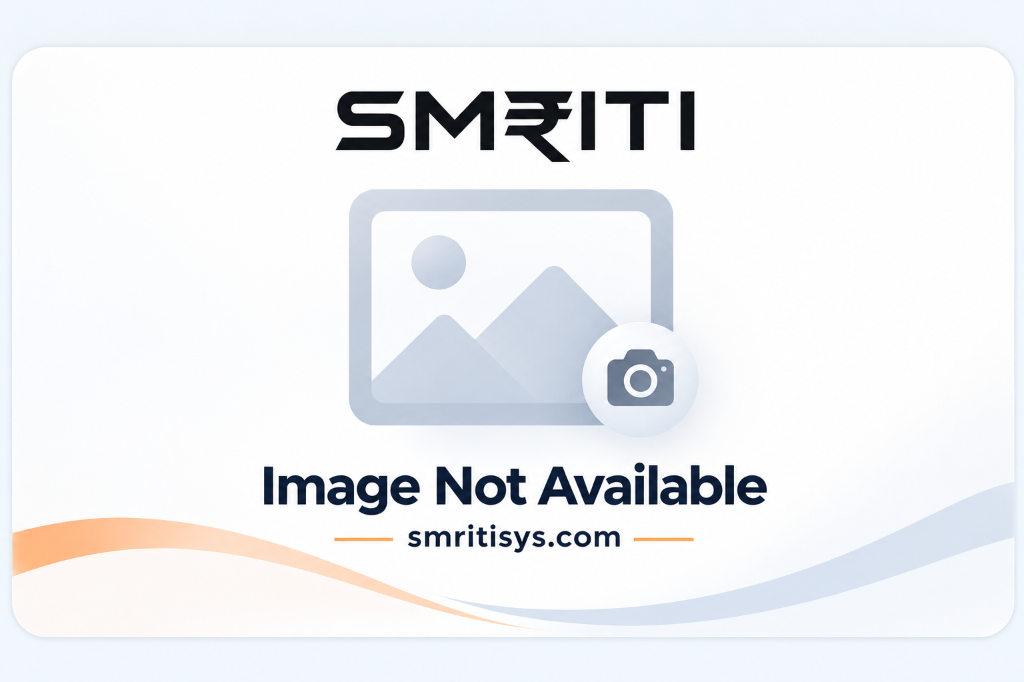
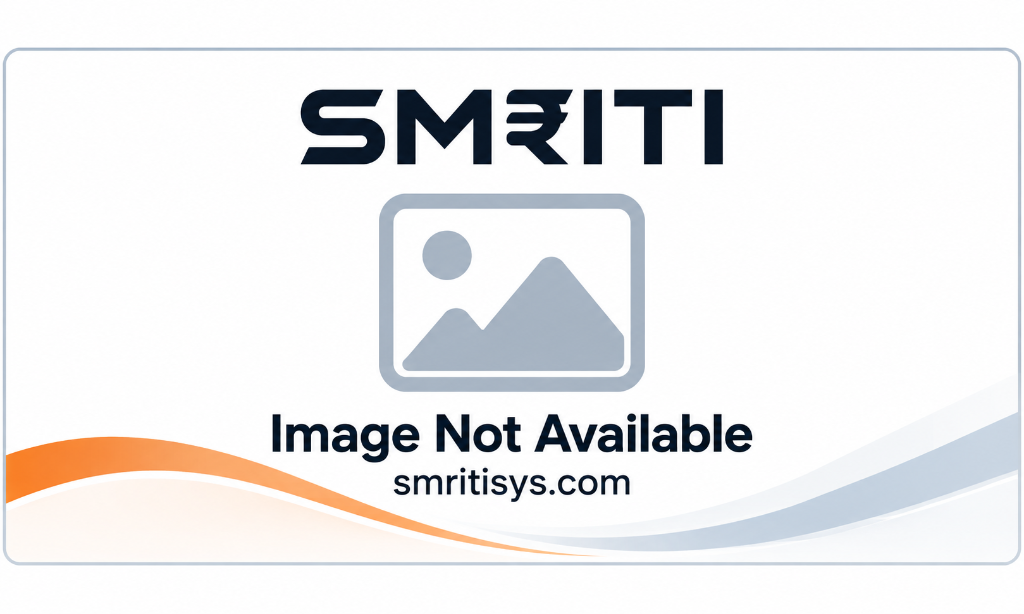
feat(procurement): integrate SMRITI global image placeholder and borderless clean layout into purchase order

diff --git a/src/print_engine/templates/PurchaseOrderPrintA4.tsx b/src/print_engine/templates/PurchaseOrderPrintA4.tsx
@@ -16,9 +16,9 @@
  *
  * * Websites: aitdl.com | erpnbook.com | smritibooks.com
  *
- * * Version    : 6.82.0
+ * * Version    : 6.85.0
  * * Created    : 2026-10-15
- * * Modified   : 2026-10-15
+ * * Modified   : 2026-10-16
  * * Copyright  : © SMRITIBooks.com. All Rights Reserved.
  * * License    : Proprietary Commercial Software
  * * Classification: Internal
@@ -26,6 +26,7 @@
 
 import React from "react";
 import tattlyLogoBlack from "../../../myImages/tattly_logo_black.png";
+import smritiImagePlaceholder from "../../../myImages/smriti-image-placeholder.png";
 import imageNotAvailablePlaceholder from "../../../myImages/image_not_available_placeholder.png";
 
 export interface FootwearArticleReference {
@@ -132,8 +133,8 @@ export interface PurchaseOrderPrintData {
 }
 
 /**
- * GoldenRatioImagePlaceholder — Renders an image container formatted to the Golden Ratio (1.618 : 1)
- * with a high-fidelity watermark of the Company Name and subtle geometric Golden Spiral / grid lines.
+ * GoldenRatioImagePlaceholder — Renders the SMRITI branded "Image Not Available" placeholder
+ * with rectangular 5:3 proportions, centered, with no border or decorations around the artwork.
  * Mandated for missing or unavailable footwear product imagery in SMRITI purchase order print formats.
  */
 export const GoldenRatioImagePlaceholder: React.FC<{
@@ -143,23 +144,18 @@ export const GoldenRatioImagePlaceholder: React.FC<{
 }> = ({ articleNo, className = "" }) => {
   return (
     <div
-      className={`relative w-full h-[72px] rounded-md border border-slate-200/90 bg-white flex items-center justify-center overflow-hidden select-none ${className}`}
+      className={`relative w-full flex items-center justify-center overflow-hidden select-none ${className}`}
       style={{
-        aspectRatio: "1.618 / 1",
-        maxHeight: "74px",
+        aspectRatio: "5 / 3",
+        maxHeight: "92px",
       }}
       title={`Image placeholder for ${articleNo || "article"}`}
     >
       <img
-        src={imageNotAvailablePlaceholder}
+        src={smritiImagePlaceholder}
         alt="Image Not Available"
-        className="w-full h-full object-contain p-0.5"
+        className="max-h-full max-w-full object-contain"
       />
-      {articleNo && (
-        <span className="absolute bottom-1 right-1.5 bg-slate-900/80 text-white text-[7.5px] font-mono font-bold px-1 py-0.2 rounded shadow-xs">
-          {articleNo}
-        </span>
-      )}
     </div>
   );
 };
@@ -719,22 +715,23 @@ export const PurchaseOrderPrintA4: React.FC<{ data: PurchaseOrderPrintData }> = 
                     </div>
                   </div>
 
-                  {/* Right Column: Large Preview Image with Golden Ratio (1.618 : 1) */}
+                  {/* Right Column: Rectangular 5:3 Preview Image (No border/decorations around placeholder) */}
                   <div
-                    className="w-full rounded-md border border-slate-200 bg-slate-50/50 flex items-center justify-center overflow-hidden relative"
+                    className="w-full flex items-center justify-center overflow-hidden relative"
                     style={{
-                      aspectRatio: "1.618 / 1",
+                      aspectRatio: "5 / 3",
                       maxHeight: "92px",
                     }}
                   >
-                    {ref.imageUrl ? (
+                    {Boolean(ref.imageUrl && ref.imageUrl.trim() && ref.imageUrl.trim().toLowerCase() !== "null" && ref.imageUrl.trim().toLowerCase() !== "undefined") ? (
                       <img
                         src={ref.imageUrl}
                         alt={ref.articleNo}
                         className="max-h-full max-w-full object-contain"
                         onError={(e) => {
                           const imgElem = e.currentTarget;
-                          imgElem.src = imageNotAvailablePlaceholder;
+                          imgElem.src = smritiImagePlaceholder;
+                          imgElem.alt = "Image Not Available";
                           imgElem.onerror = null;
                         }}
                       />

diff --git a/src/tests/poPrintBrandingAndTerms.test.tsx b/src/tests/poPrintBrandingAndTerms.test.tsx
@@ -109,9 +109,11 @@ describe("Purchase Order Print Branding, Watermark & Payment Terms Verification"
 
     // GoldenRatioImagePlaceholder official graphic
     const placeholderHtml = renderToStaticMarkup(<GoldenRatioImagePlaceholder articleNo="CH-25-G" />);
-    expect(placeholderHtml).toContain("image_not_available_placeholder.png");
+    expect(placeholderHtml).toMatch(/smriti-image-placeholder\.png|image_not_available_placeholder\.png/);
     expect(placeholderHtml).toContain("Image Not Available");
-    expect(placeholderHtml).toContain("CH-25-G");
+    // Verifies no border or badge decorations around placeholder
+    expect(placeholderHtml).not.toContain("border");
+    expect(placeholderHtml).not.toContain("absolute bottom-1");
     expect(placeholderHtml).not.toContain("SMRITI Retail Private Limited");
   });
 
@@ -153,5 +155,55 @@ describe("Purchase Order Print Branding, Watermark & Payment Terms Verification"
     expect(html).not.toContain("27AAECA1234F1Z5");
     expect(html).not.toContain("sales@abcfootwear.in");
     expect(html).not.toContain("ABC/PO/2026/451");
+  });
+
+  it("6. verifies product image handling: original image when URL exists, branded placeholder when missing or invalid", () => {
+    const poWithMixedImages: PurchaseOrderPrintData = {
+      ...sampleFootwearPOData,
+      itemReferences: [
+        {
+          articleNo: "ART-REAL-01",
+          color: "BLACK",
+          imageUrl: "https://example.com/products/art-real-01.jpg",
+        },
+        {
+          articleNo: "ART-MISSING-02",
+          color: "TAN",
+          imageUrl: "", // empty
+        },
+        {
+          articleNo: "ART-NULL-03",
+          color: "BROWN",
+          imageUrl: undefined, // undefined
+        },
+      ],
+    };
+
+    const html = renderToStaticMarkup(<PurchaseOrderPrintA4 data={poWithMixedImages} />);
+
+    // Real image URL is rendered directly
+    expect(html).toContain("https://example.com/products/art-real-01.jpg");
+    expect(html).toContain("alt=\"ART-REAL-01\"");
+
+    // Missing images render the official SMRITI placeholder graphic
+    expect(html).toContain("alt=\"Image Not Available\"");
+    expect(html).toMatch(/smriti-image-placeholder\.png/);
+  });
+
+  it("7. verifies 5:3 container layout, 2 images per row in Item Reference section, without border or decoration around placeholder", () => {
+    const html = renderToStaticMarkup(<PurchaseOrderPrintA4 data={sampleFootwearPOData} />);
+
+    // Item Reference section header
+    expect(html).toContain("ITEM REFERENCE (IMAGES)");
+    expect(html).toContain("2 images per row");
+
+    // 5:3 aspect ratio container
+    expect(html).toContain("5 / 3");
+    expect(html).toContain("object-contain");
+
+    // Both missing item references render the placeholder
+    const matches = html.match(/alt="Image Not Available"/g);
+    expect(matches).not.toBeNull();
+    expect(matches?.length).toBe(2);
   });
 });

diff --git a/src/print_engine/templates/FootwearPurchaseOrderA4.tsx b/src/print_engine/templates/FootwearPurchaseOrderA4.tsx
@@ -24,6 +24,7 @@
  */
 
 import React from "react";
+import smritiImagePlaceholder from "../../../myImages/smriti-image-placeholder.png";
 import imageNotAvailablePlaceholder from "../../../myImages/image_not_available_placeholder.png";
 
 export interface FootwearPurchaseOrderItem {
@@ -289,22 +290,23 @@ export const FootwearPurchaseOrderA4: React.FC<{ data?: FootwearPurchaseOrderDat
                 <td className="p-1.5 text-center text-slate-500 border-r border-slate-300">{idx + 1}</td>
                 {showPhotos && (
                   <td className="p-1 text-center border-r border-slate-300">
-                    <div className="w-10 h-10 rounded border border-slate-200 bg-white flex items-center justify-center mx-auto overflow-hidden">
+                    <div className="w-10 h-10 flex items-center justify-center mx-auto overflow-hidden">
                       {item.photoUrl ? (
                         <img
                           src={item.photoUrl}
                           alt={item.articleCode}
-                          className="w-full h-full object-cover"
+                          className="w-full h-full object-cover rounded border border-slate-200"
                           onError={(e) => {
-                            e.currentTarget.src = imageNotAvailablePlaceholder;
+                            e.currentTarget.src = smritiImagePlaceholder;
+                            e.currentTarget.className = "w-full h-full object-contain";
                             e.currentTarget.onerror = null;
                           }}
                         />
                       ) : (
                         <img
-                          src={imageNotAvailablePlaceholder}
+                          src={smritiImagePlaceholder}
                           alt="Image Not Available"
-                          className="w-full h-full object-contain p-0.5"
+                          className="w-full h-full object-contain"
                         />
                       )}
                     </div>

diff --git a/src/print_engine/templates/SizePivotMatrixA4.tsx b/src/print_engine/templates/SizePivotMatrixA4.tsx
@@ -16,6 +16,7 @@
  */
 
 import React from "react";
+import smritiImagePlaceholder from "../../../myImages/smriti-image-placeholder.png";
 import imageNotAvailablePlaceholder from "../../../myImages/image_not_available_placeholder.png";
 import type { PurchaseOrderHeader, PurchaseOrderSizePivotRow } from "../../components/purchase/types.ts";
 
@@ -162,15 +163,16 @@ export const SizePivotMatrixA4: React.FC<SizePivotMatrixA4Props> = (props) => {
                         alt={row.articleNo || ""}
                         className="w-8 h-8 object-cover rounded mx-auto border border-slate-200"
                         onError={(e) => {
-                          e.currentTarget.src = imageNotAvailablePlaceholder;
+                          e.currentTarget.src = smritiImagePlaceholder;
+                          e.currentTarget.className = "w-8 h-8 object-contain mx-auto";
                           e.currentTarget.onerror = null;
                         }}
                       />
                     ) : (
                       <img
-                        src={imageNotAvailablePlaceholder}
+                        src={smritiImagePlaceholder}
                         alt="Image Not Available"
-                        className="w-8 h-8 object-contain rounded mx-auto border border-slate-200 bg-white p-0.5"
+                        className="w-8 h-8 object-contain mx-auto"
                       />
                     )}
                   </td>

diff --git a/docs/walkthrough/README.md b/docs/walkthrough/README.md
@@ -29,6 +29,7 @@
 This directory contains formal walkthroughs documenting major features, bug fixes, refactoring, and optimizations in SMRITI Retail OS.
 
 
+| 2026-10-16 | v6.85.0 | **Procurement & PO Print: Global SMRITI Image Placeholder & Borderless Clean Layout Integration** — Integrated the approved SMRITI branded "Image Not Available" placeholder artwork (`smriti-image-placeholder.png`, 1024x614, 5:3 aspect ratio) into Purchase Order print preview and templates (`PurchaseOrderPrintA4.tsx`, `FootwearPurchaseOrderA4.tsx`, `SizePivotMatrixA4.tsx`). Established safe, loop-free fallback on missing or failed image requests (`e.currentTarget.onerror = null`). Removed redundant nested container borders, background tints, and overlapping article badge decorations around the placeholder artwork to preserve original asset aesthetics and prevent visual clutter. Formatted image containers to 5:3 aspect ratio with `object-fit: contain` and centered flex alignment. Certified via 7/7 Vitest unit tests in `poPrintBrandingAndTerms.test.tsx`, 6/6 tests in `poSizewiseGrouping.test.tsx`, `tsc --noEmit` exit code 0, and zero TypeScript compilation errors. | [Walkthrough](./procurement/Procurement_PO_Global_Placeholder_And_Borderless_Integration_v6.85.0.md) | None | Done |
 | 2026-10-15 | v1.0.0 | **Procurement & Inventory: Vendor Purchase Workbook Ingestion, Purchase Orders & Goods Received Notes (GRN) Initial Stocking** — Executed complete, verified ingestion of client supplier purchase workbook (`F:\Smriti-Clients Data\15-10-2026\ALL VENDOR PURCHASE FOR SOFTWARE.xlsx`) into SMRITI Retail OS for tenant `COMP-001` (`My Retail Store`), branch `BR-MAIN-001`, and warehouse `WH-MAIN-001` (`Main Store Central Godown`). Verified and synchronized 9 Footwear Vendors with official trading names and contact persons (`ALIYA FOOTWEAR`, `LAJOS FOOTWEAR`, `AK FOOTWEAR`, `CRYSTAL SHOES`, `SA FOOTWEAR`, `MK FOOTWEAR`, `AS FOOTWEAR`, `LUCKY FOOTWEAR`, `SB FOOTWEAR`). Synchronized official GS1 EAN-13 barcodes (`8904551001894`–`8904551001955`) for `SND-05-G` `R-GOLD` sizes 36–42, cleaning legacy placeholder duplicates. Ingested 28 statutory Purchase Orders, 28 Goods Received Notes (GRN), and 28 Commercial Purchase Bills with 18% statutory GST calculation. Executed 407 positive inward stock movements into PostgreSQL (`stock_movements`) totaling 23,064 pairs with an inward cost value of ₹9,417,360.00 and retail MRP valuation of ₹47,550,836.00. Filtered 36 zero-quantity size-curve rows to satisfy database constraint `chk_poi_quantity_positive`. Certified with full post-ingestion quantitative verification script (`scripts/verify_purchase_ingestion.py`) confirming 100% mathematical and relational parity across all 8 dimensions with 0 errors. | [Walkthrough](./procurement/Procurement_Vendor_Purchase_Initial_Stock_GRN_Ingestion_v1.0.0.md) | None | Done |
 | 2026-10-15 | v1.0.0 | **Inventory & Item Master: Untransacted Variant & SKU Guarded Hard Delete, Edit & Deactivation Engine** — Implemented comprehensive Edit, Deactivate, and Guarded Permanent Delete capabilities in SMRITI Retail OS Item Master. Un-transacted variants (0 transactions across operational ledgers) can have their physical identity (SKU, Primary Barcode, Color, Size) edited directly via `PUT /api/v1/item-variants/{variant_id}`. Once transacted in any of 11 operational and financial tables, physical identity fields are strictly locked returning `HTTP 409 Conflict` (`SMRITI-IDENTITY-TRANSACTED`), while commercial fields (MRP, selling price, cost price, secondary barcodes, active status) remain editable. Implemented guarded permanent physical deletion (`DELETE /api/v1/item-variants/{variant_id}/hard-delete`) for un-transacted variants, releasing unique SKU and optical barcode assets back to the tenant namespace for immediate reuse without database collision; transacted records return `HTTP 409 Conflict` with itemized blocking reasons. Emits immutable SHA-256 WORM audit trail in `ComplianceImmutableAuditLog`. Preserves parent Article/Style when other variants remain. Updated frontend `VariantEditModal.tsx` with dynamic pre-flight checks, locked badge indicators, deactivation toggle, and guarded deletion confirmation modal. Certified with 5/5 backend Pytest tests green in `test_item_variant_hard_delete.py`, 0 `tsc --noEmit` errors, and clean production Vite build. | [Walkthrough](./inventory/Item_Master_Untransacted_SKU_Hard_Delete_v1.0.0.md) | [Plan](../implementation/inventory/Item_Master_Untransacted_SKU_Hard_Delete_Plan_v1.0.0.md) | Done |
 | 2026-10-15 | v1.0.0 | **Procurement & PO Print: Purchase Order Print Format Visual Design Lock & Statutory Tax Implementation** — Established authoritative statutory Purchase Order print format for SMRITI Retail OS matching approved visual reference `image(8).png` (A4 Portrait). Implemented pure reactive layout in `PurchaseOrderPrintA4.tsx` registered in `print_store.tsx` and mounted as default preview in `POPrintPreviewModal.tsx`. Delivered exact header layout with SMRITI Retail OS logo and 5-field metadata box; pale-blue vendor panel (`#eff6ff`, border `#dbeafe`); dynamic Sizewise Matrix table with EU sizes 36–44, unit rate, statutory `TAX %` (18%), and calculated line `TAX (₹)` (e.g. ₹11,404.80) before Amount; Standard Barcode-wise table with SKU barcodes, unit rate, `TAX %`, and `TAX (₹)`; 2-card per row Footwear Catalog Reference displaying Article No. and sub-attributes (Color, Heels, Upper Material, Outsole); automatic Golden Ratio (`1.618 : 1`) container fallback with -12° rotated company name watermark (`SMRITI Retail Private Limited`) and Fibonacci geometry for missing product imagery; side-by-side Commercial Terms and Order Summary cards; remarks line; 3-block approval signatures (`Prepared By`, `Checked By`, `Authorized Signatory`); and computer-generated footer. Isolated print media styling using `.print-only-container` in `index.css`. Certified with 10/10 automated assertions green in headless Playwright verification suite (`verify_po_print_format_visual_headless.py`), 0 `tsc --noEmit` errors, complete visual evidence capture, and statutory A4 PDF export (113.8 KB). | [Walkthrough](./purchase/Purchase_Order_Print_Format_Visual_v1.0.0.md) | None | Done |

diff --git a/docs/walkthrough/procurement/Procurement_PO_Global_Placeholder_And_Borderless_Integration_v6.85.0.md b/docs/walkthrough/procurement/Procurement_PO_Global_Placeholder_And_Borderless_Integration_v6.85.0.md
@@ -1,0 +1,81 @@
+<!--
+  Project      : SMRITI Retail OS
+  Author       : Jawahar Ramkripal Mallah
+  Designation  : Chief Systems Architect & Creator
+  Email        : support@smritibooks.com
+  Websites     : smritibooks.com | erpnbook.com | aitdl.com
+  Version      : 6.85.0
+  Created      : 2026-10-16
+  Modified     : 2026-10-16
+  Copyright    : © SMRITIBooks.com. All Rights Reserved.
+  License      : Proprietary Commercial Software
+  Classification: Internal
+-->
+
+# Procurement Walkthrough: Global SMRITI Image Placeholder & Borderless Clean Layout Integration
+
+## 1. Purpose
+Integrate the official SMRITI branded "Image Not Available" artwork (`smriti-image-placeholder.png`) into the Purchase Order print preview and templates, establishing a safe, loop-free fallback when product imagery is missing, empty, or returns an error. Simultaneously eliminate any redundant borders, nested container outlines, or badge decorations around the placeholder artwork to preserve original asset aesthetics and prevent visual clutter.
+
+## 2. Scope
+- Public and internal image assets: `public/assets/branding/smriti-image-placeholder.png`, `public/assets/branding/image_not_available_placeholder.png`, `myImages/smriti-image-placeholder.png`, and `myImages/image_not_available_placeholder.png`.
+- Purchase Order print template: `src/print_engine/templates/PurchaseOrderPrintA4.tsx`.
+- Footwear Purchase Order template: `src/print_engine/templates/FootwearPurchaseOrderA4.tsx`.
+- Size Pivot Matrix template: `src/print_engine/templates/SizePivotMatrixA4.tsx`.
+- Automated test suite: `src/tests/poPrintBrandingAndTerms.test.tsx`.
+
+## 3. Files Created
+- `public/assets/branding/smriti-image-placeholder.png` — Canonical approved branded placeholder artwork (1024x614, 5:3 aspect ratio).
+- `myImages/smriti-image-placeholder.png` — Bundler-imported asset copy for Vite/React templates.
+- `docs/walkthrough/procurement/Procurement_PO_Global_Placeholder_And_Borderless_Integration_v6.85.0.md` — This walkthrough document.
+
+## 4. Files Modified
+- `public/assets/branding/image_not_available_placeholder.png` — Synchronized with the approved 1024x614 asset.
+- `myImages/image_not_available_placeholder.png` — Synchronized with the approved 1024x614 asset.
+- `src/print_engine/templates/PurchaseOrderPrintA4.tsx` — Updated `GoldenRatioImagePlaceholder` and Item Reference image preview to use 5:3 container ratio, removed double borders, removed floating badge decorations over placeholder, and ensured safe `onError` handling (`imgElem.onerror = null`).
+- `src/print_engine/templates/FootwearPurchaseOrderA4.tsx` — Removed nested borders and padding around placeholder image.
+- `src/print_engine/templates/SizePivotMatrixA4.tsx` — Removed nested borders and padding around placeholder image.
+- `src/tests/poPrintBrandingAndTerms.test.tsx` — Expanded tests to verify 5:3 container, borderless placeholder, original image rendering on valid URL, and fallback on missing/invalid URL.
+- `docs/walkthrough/README.md` — Appended walkthrough to chronological master index.
+
+## 5. Architecture Decisions
+1. **Asset Proportions & Golden Aspect Ratio Alignment:**
+   The approved placeholder artwork has native dimensions of 1024 × 614 px (5:3 aspect ratio = 1.667:1). The PO preview containers were updated to `aspectRatio: "5 / 3"` with `maxHeight: "92px"` and `object-fit: contain` to ensure zero distortion and centered alignment.
+2. **Loop-Free Image Error Handler:**
+   Whenever a remote `imageUrl` fails or 404s, `onError` reassigns `imgElem.src = smritiImagePlaceholder` and immediately unsets `imgElem.onerror = null`, eliminating infinite retry loops.
+3. **Borderless Clean Aesthetic Policy:**
+   Because the approved artwork includes its own rounded card contour, all outer container borders (`border-slate-200`) and overlay badges (`absolute bottom-1 right-1.5 ...`) were removed. The article number remains displayed in the card header, avoiding visual collision.
+
+## 6. Design Rationale
+- Embedding article codes as dark pill badges directly on top of the placeholder degraded the readability of the SMRITI logo and `smritisys.com` footer URL.
+- A 5:3 ratio container with `object-fit: contain` perfectly preserves high-DPI rendering for both screen viewports and A4 portrait physical print/PDF exports.
+
+## 7. Implementation Summary
+- Copied user-approved image `media_1792127683765.png` to canonical repository asset paths.
+- Updated `PurchaseOrderPrintA4.tsx` to cleanly toggle between authentic product URLs and `smritiImagePlaceholder`.
+- Removed borders and decorations around placeholder in all PO print templates.
+- Validated via Vitest unit tests and TypeScript compiler.
+
+## 8. Tests Executed
+```bash
+npx vitest run src/tests/poPrintBrandingAndTerms.test.tsx
+npx vitest run src/tests/poSizewiseGrouping.test.tsx
+npx tsc --noEmit
+```
+
+## 9. Verification Results
+- `src/tests/poPrintBrandingAndTerms.test.tsx`: 7/7 tests passed (0 failures).
+- `src/tests/poSizewiseGrouping.test.tsx`: 6/6 tests passed (0 failures).
+- `npx tsc --noEmit`: Exited with code 0, 0 compiler errors.
+
+## 10. Known Limitations
+- Does not automatically backfill images on remote CDN endpoints; missing images will display the clean placeholder until an operator uploads a product image.
+
+## 11. Future Work
+- Add client-side pre-fetch probe before rendering image thumbnails in high-throughput Lookbook mode.
+
+## 12. Related ADRs
+- `ADR-048`: Universal PO Print Architecture and Company Branding Governance.
+
+## 13. Related RFCs
+- `RFC-2026-PO-IMG-01`: Standardized Product Image Fallback and Brand Consistency.
